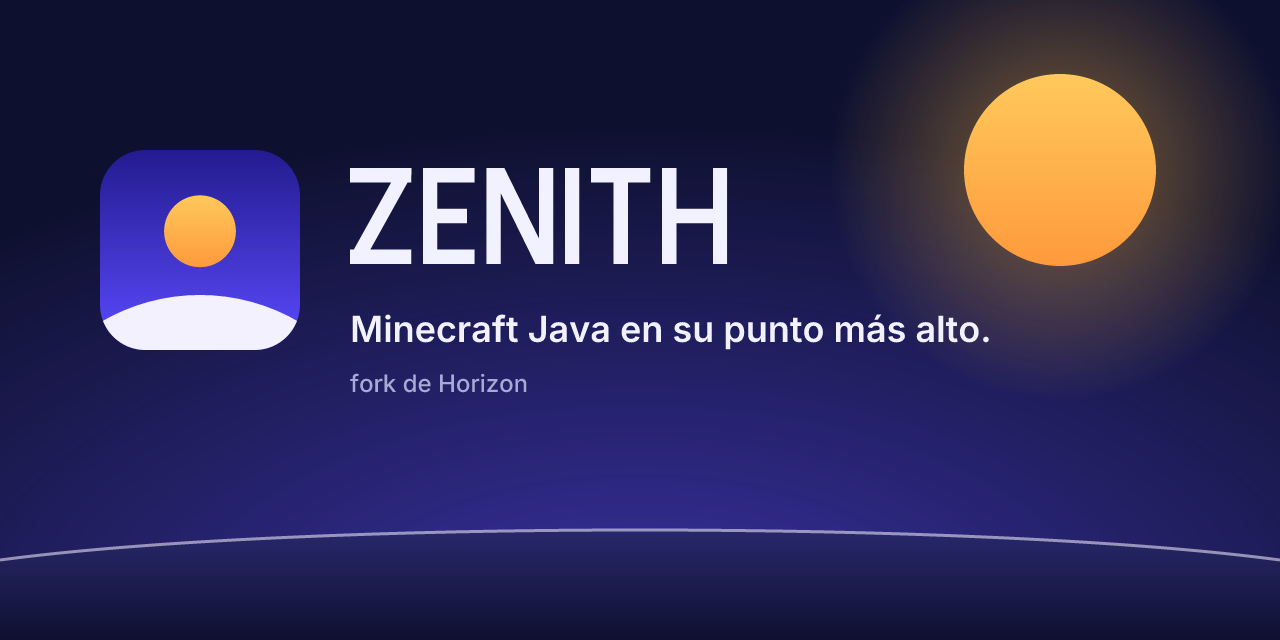
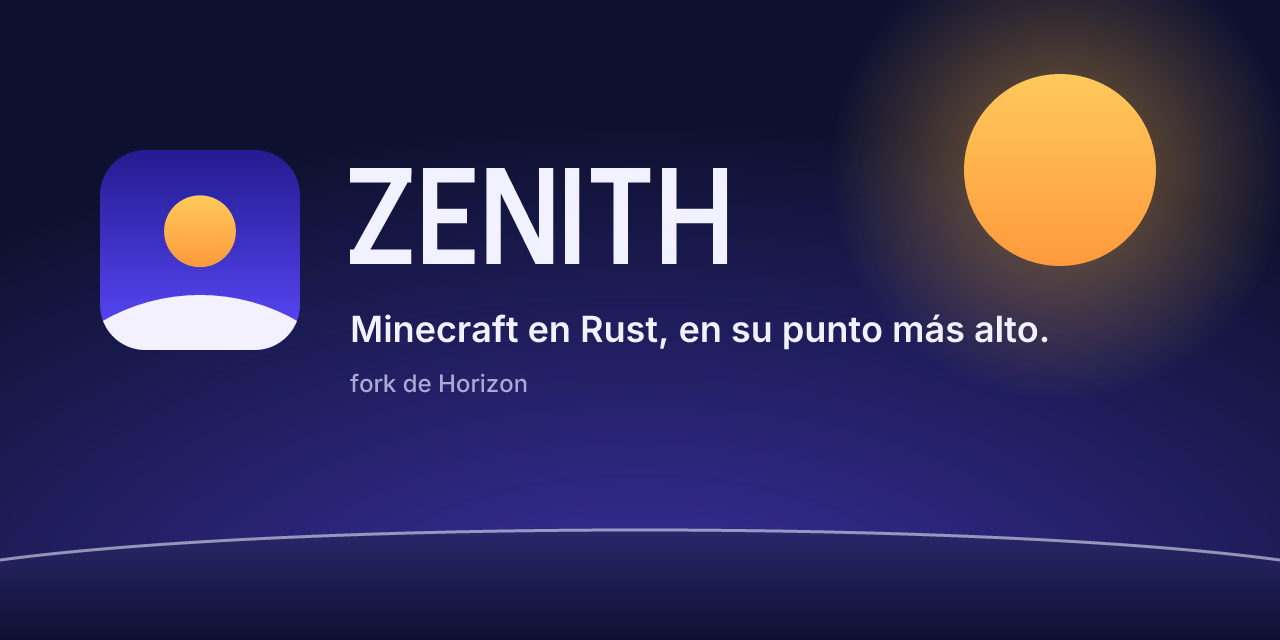
zenith: motto 'Minecraft en Rust, en su punto más alto.'

Changed region(s): [[0.4062, 0.5, 0.8125, 0.5625]]

diff --git a/branding/BRAND.md b/branding/BRAND.md
@@ -18,10 +18,10 @@ esquinas vivas. Es propio y no es una fuente.
 
 ## Lema
 
-Principal: **Minecraft Java en su punto más alto.** (zenith es el punto más alto). Alternativas:
+Principal: **Minecraft en Rust, en su punto más alto.** (zenith es el punto más alto). Alternativas:
 
-- Minecraft, sin techo.
-- Lleva Minecraft más arriba.
+- Minecraft en Rust, sin techo.
+- Lleva Minecraft en Rust más arriba.
 
 ## Archivos
 

diff --git a/README.md b/README.md
@@ -1,4 +1,4 @@
-<img src="branding/png/banner.png" alt="Zenith: Minecraft Java en su punto más alto. Fork de Horizon." width="100%">
+<img src="branding/png/banner.png" alt="Zenith: Minecraft en Rust, en su punto más alto. Fork de Horizon." width="100%">
 
 # Zenith
 
